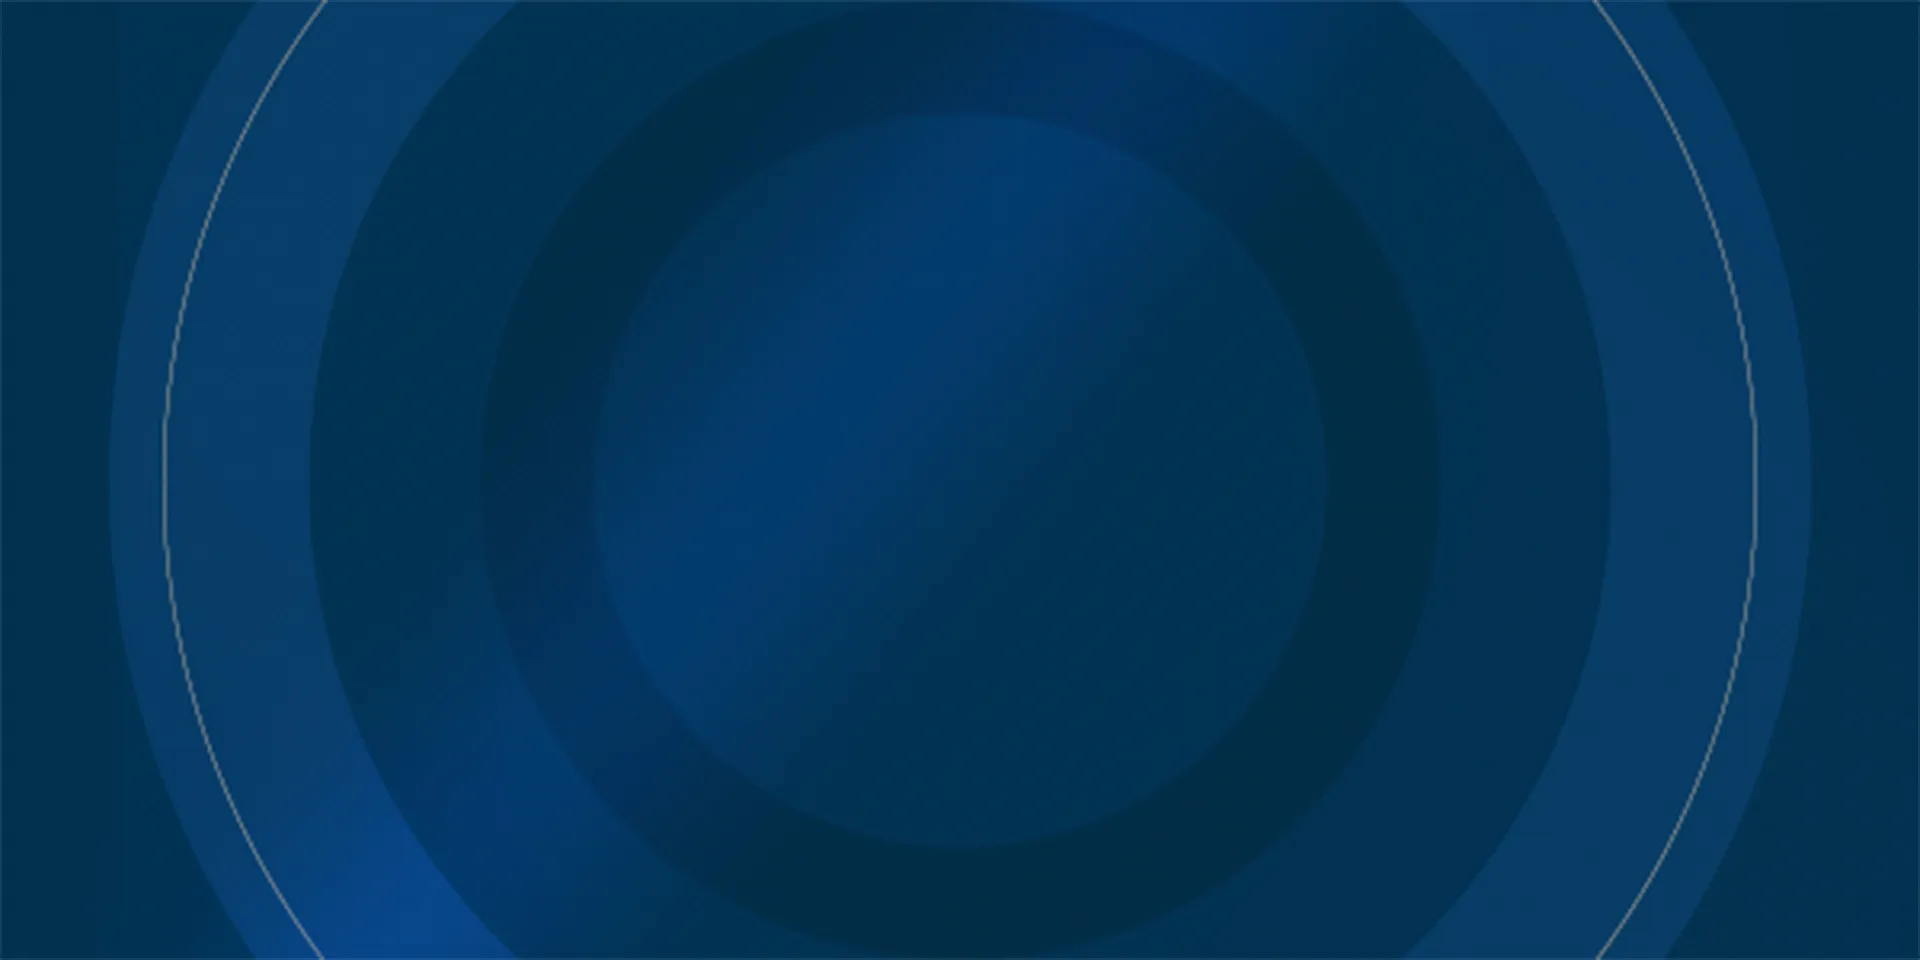
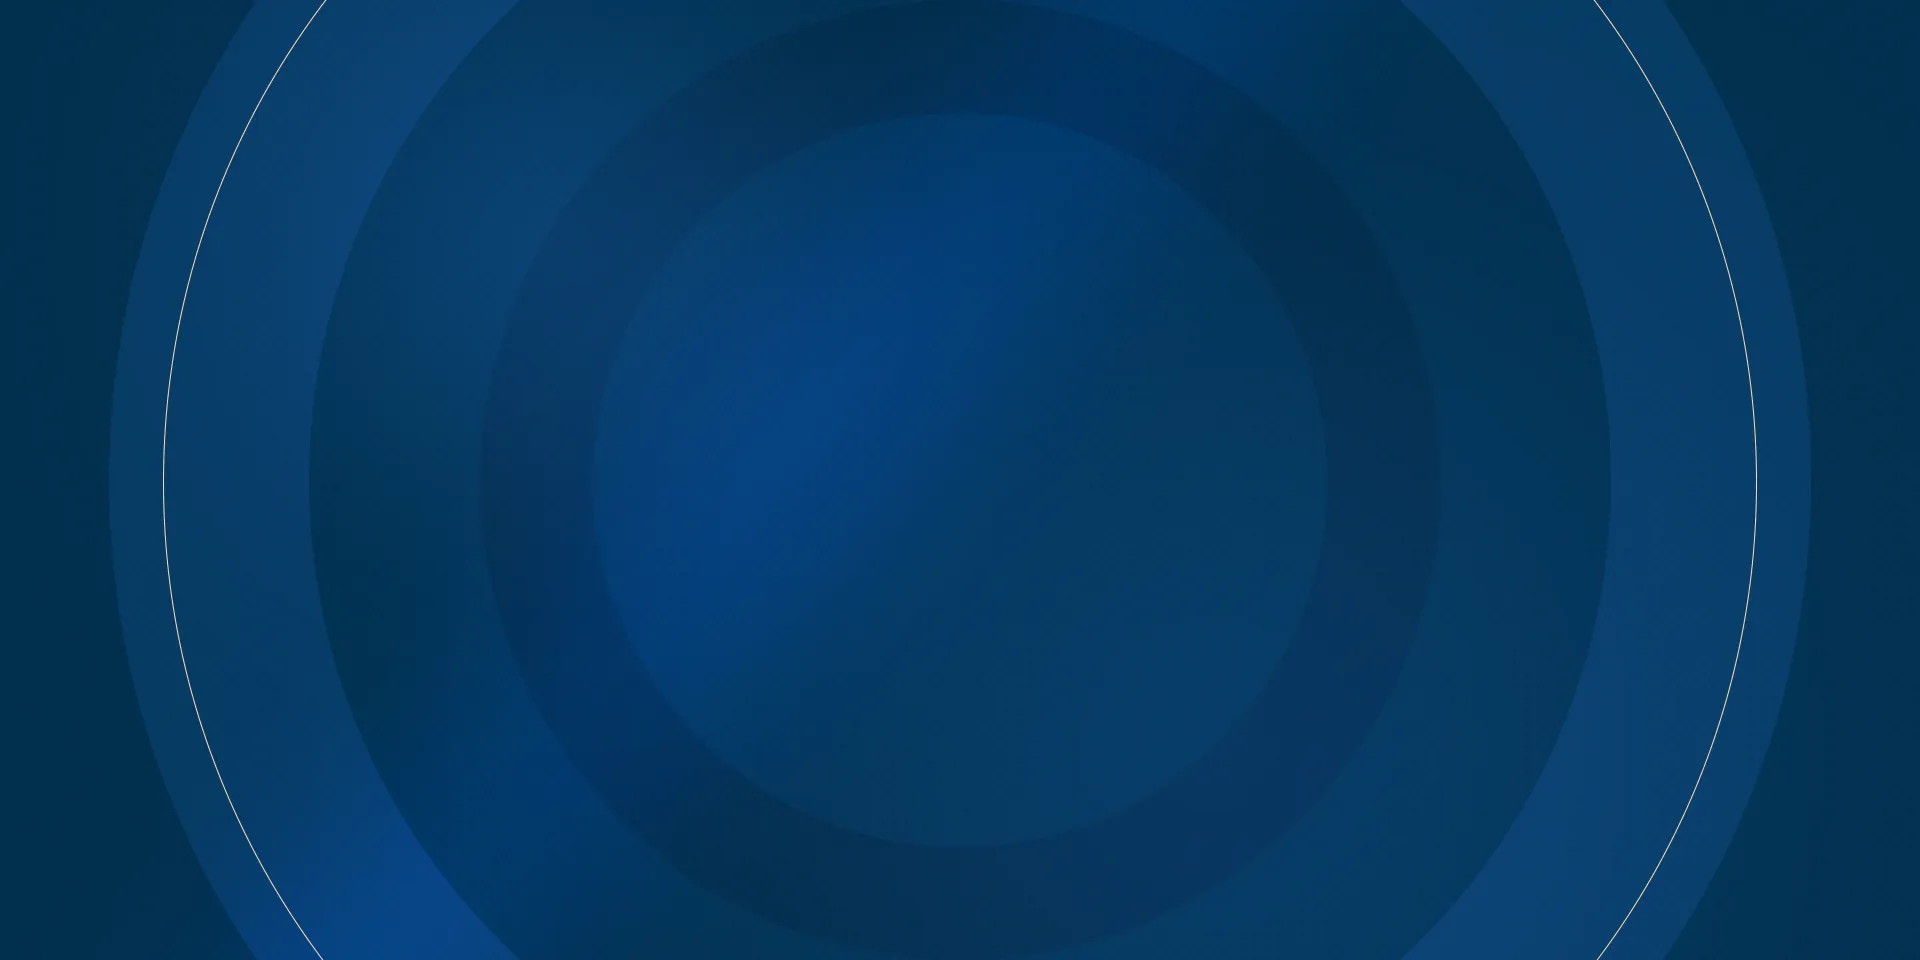
Enhance homepage layout and content: update hero section background, restructure about section with image and improved text, and refine program section with clearer offerings and visuals.

Changed region(s): [[0.2188, 0.125, 0.4062, 0.4688], [0.5625, 0.6562, 0.7188, 0.9375], [0.1562, 0.9688, 0.1875, 1.0]]

diff --git a/index.html b/index.html
@@ -64,7 +64,7 @@
       <!-- ================= HERO ================= -->
       <section
         id="hero"
-        class="px-6 py-16 max-w-7xl mx-auto grid gap-10 md:grid-cols-2 items-center"
+        class="px-6 py-16 max-w-7xl mx-auto grid gap-10 md:grid-cols-2 items-center bg-[url('/assets/images/bg-padrao.webp')] bg-cover bg-center"
       >
         <!-- Texto -->
         <div>
@@ -104,60 +104,140 @@
       </section>
 
       <!-- ================= ABOUT ================= -->
-      <section id="about" class="px-6 py-20 max-w-5xl mx-auto">
-        <h2 class="text-2xl md:text-4xl font-bold mb-6">
-          ¿Quién es Santiago Aramendía y por qué puede ayudarte a atraer
-          inversión?
-        </h2>
+      <section
+        id="about"
+        class="px-6 py-20 max-w-5xl mx-auto flex flex-col md:flex-row gap-11"
+      >
+        <div class="size-60 rounded-full mb-6 bg-secondary overflow-hidden">
+          <img
+            src="/assets/images/santiago-aramendia.webp"
+            alt="Santiago Aramendía"
+            class="object-cover w-full h-full"
+          />
+        </div>
+        <div class="flex-1">
+          <h2 class="text-2xl md:text-4xl font-bold mb-6">
+            ¿Quién es Santiago Aramendía y por qué puede ayudarte a atraer
+            inversión?
+          </h2>
 
-        <p class="text-lg text-white/90 mb-6">
-          Santiago Aramendía es especialista en estrategia empresarial y
-          captación de inversiones, con más de 15 años acompañando startups y
-          emprendedores en Latinoamérica y Europa.
-        </p>
+          <p class="text-lg text-white/90 mb-6">
+            Santiago Aramendía es especialista en estrategia empresarial y
+            captación de inversiones, con más de 15 años acompañando startups y
+            emprendedores en Latinoamérica y Europa.
+          </p>
 
-        <ul class="space-y-3 mb-8">
-          <li>✔ +15 años acompañando emprendedores y startups</li>
-          <li>✔ Experiencia internacional</li>
-          <li>✔ Especialista en estructuración de negocios y pitch</li>
-          <li>✔ Resultados concretos en preparación para inversión</li>
-        </ul>
+          <ul class="space-y-3 mb-8">
+            <li class="flex items-center gap-1">
+              <img
+                src="/assets/images/check-secondary.svg"
+                alt="Secondary Check Icon"
+                class="size-6"
+              />
+              +15 años acompañando emprendedores y startups
+            </li>
+            <li class="flex items-center gap-1">
+              <img
+                src="/assets/images/check-secondary.svg"
+                alt="Secondary Check Icon"
+                class="size-6"
+              />Experiencia internacional
+            </li>
+            <li class="flex items-center gap-1">
+              <img
+                src="/assets/images/check-secondary.svg"
+                alt="Secondary Check Icon"
+                class="size-6"
+              />Especialista en estructuración de negocios y pitch
+            </li>
+            <li class="flex items-center gap-1">
+              <img
+                src="/assets/images/check-secondary.svg"
+                alt="Secondary Check Icon"
+                class="size-6"
+              />
+              Resultados concretos en preparación para inversión
+            </li>
+          </ul>
 
-        <a
-          href="https://linkedin.com"
-          target="_blank"
-          rel="noopener noreferrer"
-          class="inline-flex items-center gap-2 text-secondary font-medium underline"
-        >
-          Conectá en LinkedIn
-        </a>
+          <a
+            href="https://linkedin.com"
+            target="_blank"
+            rel="noopener noreferrer"
+            class="inline-flex items-center gap-2 text-secondary font-medium uppercase tracking-wider border border-secondary px-6 py-3 rounded-full hover:bg-secondary/20 transition-colors"
+          >
+            <img
+              src="/assets/images/linkedin-box-fill.svg"
+              alt=""
+              class="size-10"
+            />
+            Conectá en LinkedIn
+          </a>
+        </div>
       </section>
 
       <!-- ================= PROGRAM ================= -->
       <section id="program" class="px-6 py-20 bg-white text-primary">
-        <div class="max-w-5xl mx-auto">
-          <h2 class="text-2xl md:text-4xl font-bold mb-6">
-            Todo lo que tu startup necesita para presentarse profesionalmente
-            ante inversores
-          </h2>
+        <div
+          class="max-w-5xl mx-auto flex flex-col md:flex-row gap-10 items-center"
+        >
+          <div class="flex-1">
+            <h2 class="text-2xl md:text-4xl font-bold mb-6">
+              Todo lo que tu startup necesita para presentarse profesionalmente
+              ante inversores
+            </h2>
 
-          <p class="text-lg mb-8">
-            En 30 días trabajamos juntos para estructurar tu proyecto y preparar
-            los materiales clave que los inversores esperan ver.
-          </p>
+            <p class="text-lg mb-8">
+              En 30 días trabajamos juntos para estructurar tu proyecto y
+              preparar los materiales clave que los inversores esperan ver.
+            </p>
 
-          <ul class="space-y-4 mb-8">
-            <li>✔ One Pager profesional</li>
-            <li>✔ Pitch Deck claro y estratégico</li>
-            <li>✔ Plan de negocio</li>
-            <li>✔ Crafteo y entrenamiento de Pitch</li>
-            <li>✔ Acompañamiento personalizado</li>
-          </ul>
+            <ul class="space-y-4 mb-8">
+              <li class="flex items-center gap-1">
+                <img
+                  src="/assets/images/check-primary.svg"
+                  alt="Secondary Check Icon"
+                  class="size-6"
+                />One Pager profesional
+              </li>
+              <li class="flex items-center gap-1">
+                <img
+                  src="/assets/images/check-primary.svg"
+                  alt="Secondary Check Icon"
+                  class="size-6"
+                />Pitch Deck claro y estratégico
+              </li>
+              <li class="flex items-center gap-1">
+                <img
+                  src="/assets/images/check-primary.svg"
+                  alt="Secondary Check Icon"
+                  class="size-6"
+                />Plan de negocio
+              </li>
+              <li class="flex items-center gap-1">
+                <img
+                  src="/assets/images/check-primary.svg"
+                  alt="Secondary Check Icon"
+                  class="size-6"
+                />Crafteo y entrenamiento de Pitch
+              </li>
+              <li class="flex items-center gap-1">
+                <img
+                  src="/assets/images/check-primary.svg"
+                  alt="Secondary Check Icon"
+                  class="size-6"
+                />Acompañamiento personalizado
+              </li>
+            </ul>
 
-          <p class="font-medium">
-            Los inversores buscan startups sólidas, claras y confiables. Yo te
-            ayudo a mostrar tu proyecto con nivel profesional.
-          </p>
+            <p class="font-medium">
+              Los inversores buscan startups sólidas, claras y confiables. Yo te
+              ayudo a mostrar tu proyecto con nivel profesional.
+            </p>
+          </div>
+          <div class="w-1/2">
+            <img src="/assets/images/startup-ilustration.svg" alt="" />
+          </div>
         </div>
       </section>
 
